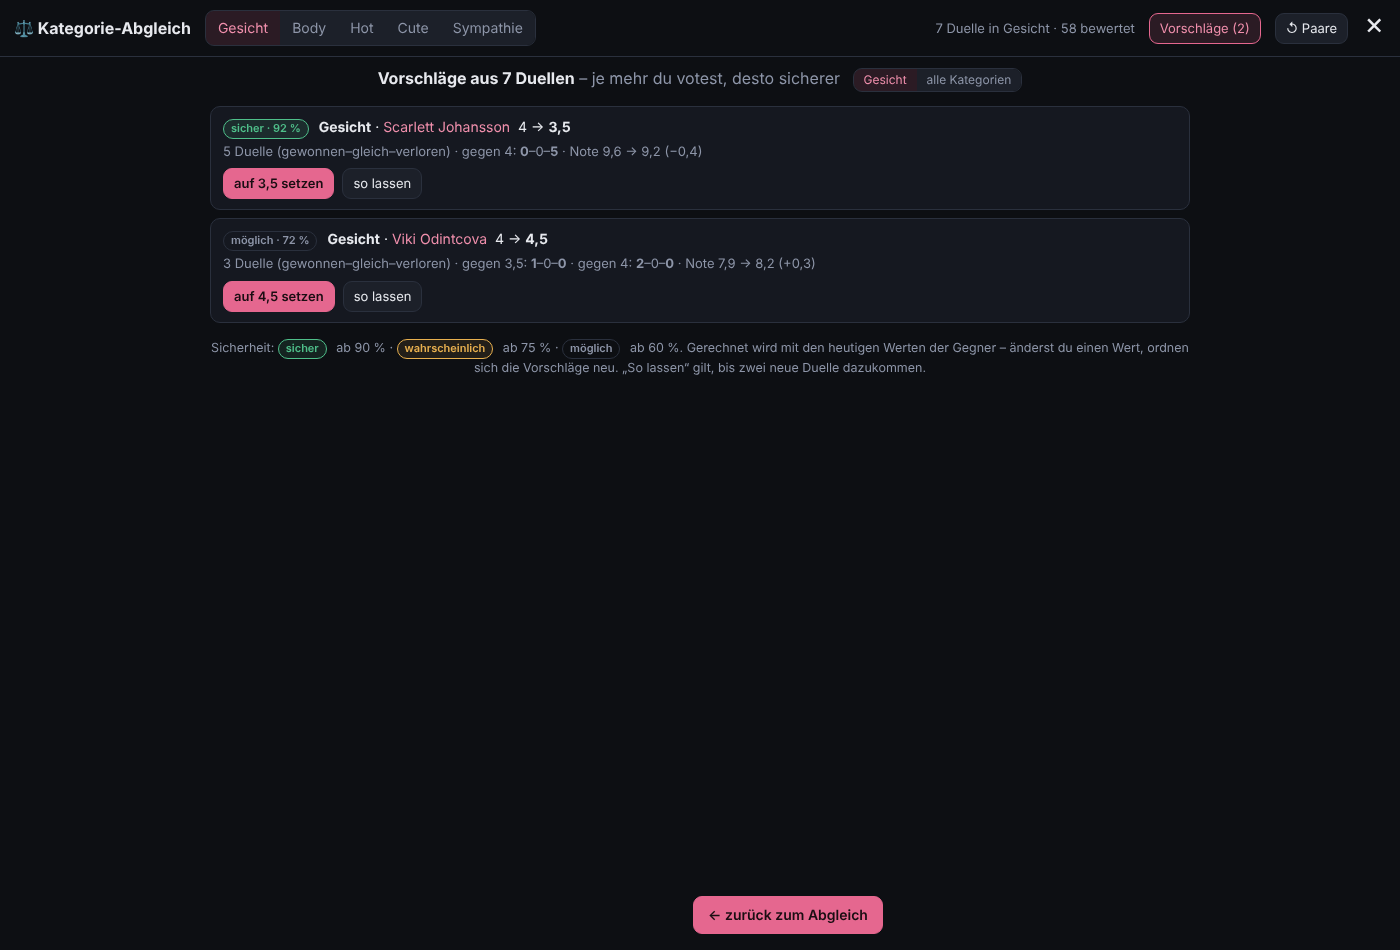
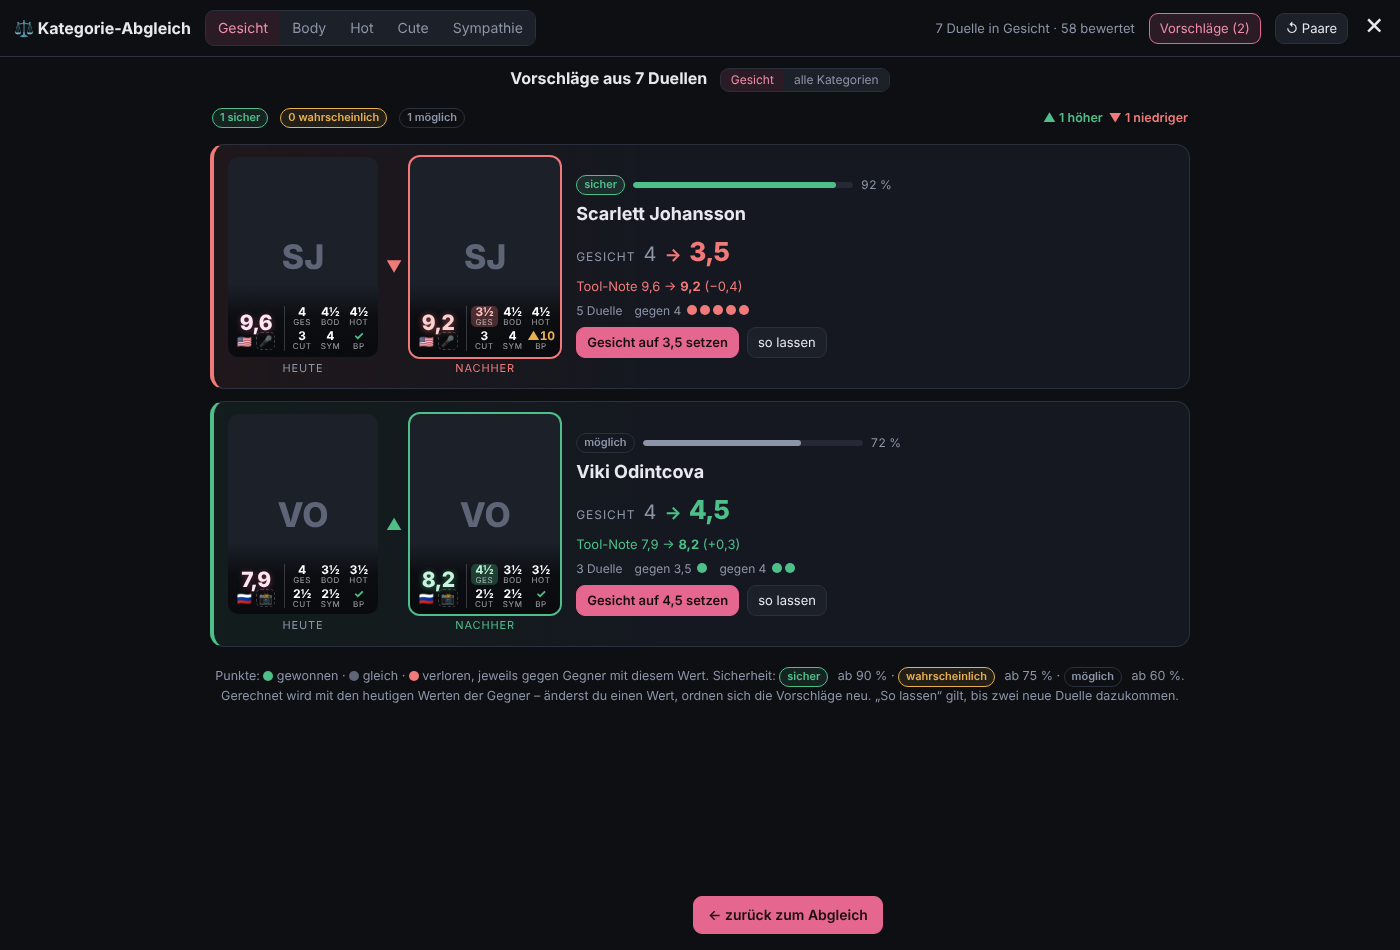
Abgleich-Vorschläge als Karten mit Vorher/Nachher-Kacheln, Farben und Duell-Punkten
Claude-Session: https://claude.ai/code/session_019S5DF1M4K8UNEBHmdPfG7m

diff --git a/app.js b/app.js
@@ -2025,11 +2025,11 @@
   }
   // Karten-Stil wie eine Sammelkarte: große Tool-Note + Flagge links, Kategorien rechts
   const futV = (x) => x == null ? '–' : (x % 1 ? Math.floor(x) + '½' : String(x));
-  function futHTML(e) {
+  function futHTML(e, hl) {   // hl = { f, dir: 'up'|'down' } hebt einen Wert hervor (Abgleich-Vorschläge)
     const s = scoreOf(e); if (!s) return '';
     const st = SCORE_CATS.map(c => {
       const x = num(v(e, c.f)), unset = x == null;
-      return `<span class="fut-s${unset ? ' unset' : ''}" title="${esc(c.label)}${unset && c.f === 'Sympathy Score' ? ' – nicht gesetzt, zählt als 2,5' : ''}"><b>${futV(x)}</b><i>${esc(c.short)}</i></span>`;
+      return `<span class="fut-s${unset ? ' unset' : ''}${hl && hl.f === c.f ? ' chg ' + hl.dir : ''}" title="${esc(c.label)}${unset && c.f === 'Sympathy Score' ? ' – nicht gesetzt, zählt als 2,5' : ''}"><b>${futV(x)}</b><i>${esc(c.short)}</i></span>`;
     }).join('');
     const r = ratingDiff(e);
     const bp = IS_CHARS ? (e._ranker ? `<span class="fut-s" title="Image Ranker: ${esc(e._ranker.tab)} · Platz ${e._ranker.rank}/${e._ranker.total}"><b style="color:${rkColor(e._ranker.tier)}">${esc(e._ranker.tier)}</b><i>RNK</i></span>` : `<span class="fut-s unset" title="nicht im Ranker"><b>–</b><i>RNK</i></span>`)
@@ -2037,7 +2037,7 @@
       : r.state === 'diff' ? `<span class="fut-s ${r.site > r.mine ? 'up' : 'down'}" title="meine Babepedia-Note ${r.site} – ${r.site > r.mine ? 'höher' : 'niedriger'} als die Tool-Note (gerundet ${r.mine})"><b>${r.site > r.mine ? '▲' : '▼'}${r.site}</b><i>BP</i></span>`
       : `<span class="fut-s unset" title="${r.state === 'gone' ? 'Babepedia-Profil gelöscht' : 'auf Babepedia noch nicht bewertet'}"><b>–</b><i>BP</i></span>`;
     const nat = IS_CHARS ? '' : fieldValues(e, 'Nationality')[0];
-    return `<div class="fut" title="Tool-Note ${esc(v(e, 'Score'))}">
+    return `<div class="fut${hl ? ' fut-' + hl.dir : ''}" title="Tool-Note ${esc(v(e, 'Score'))}">
       <div class="fut-main"><b>${s.ten.toFixed(1).replace('.', ',')}</b><span>${nat ? (flagFor(nat) || '') : ''}${(() => { const pc = ui.cardBadges.includes('primary') && primaryCat(e); return pc ? `<i class="fut-pos${pc.manual ? '' : ' auto'}" title="Hauptbereich: ${esc(pc.cat)}${pc.manual ? '' : ' (automatisch)'}">${primaryIcon(pc.cat)}</i>` : ''; })()}</span></div>
       <div class="fut-grid">${st}${bp}</div></div>`;
   }
@@ -3692,21 +3692,41 @@
       <span class="cb-fixes"><button class="btn small primary" data-cbnext>weiter <kbd>Enter</kbd></button></span></div>`;
   }
   // Liste der Vorschläge (aktuelle Kategorie oder alle)
+  // Mini-Kachel mit Sammelkarten-Overlay (vorher / nachher)
+  function sugCardHTML(e, label, hl) {
+    const img = images(e)[0], src = img ? R(img) : '';
+    return `<figure class="sg-card${hl ? ' after ' + hl.dir : ''}"><div class="sg-img"><span class="sg-ini">${esc(initials(v(e, 'Name')))}</span>${src ? `<img src="${esc(src)}" alt="" loading="lazy" referrerpolicy="no-referrer" data-alt="${esc(thumbUrl(src) || '')}" onerror="if(this.dataset.alt&&this.src!==this.dataset.alt){this.src=this.dataset.alt}else{this.remove()}">` : ''}${futHTML(e, hl)}</div><figcaption>${label}</figcaption></figure>`;
+  }
+  function sugDots(tab) {
+    return tab.map(([o, t]) => `<span class="sg-vs"><i>gegen ${fmtV(o)}</i>${'<b class="w" title="gewonnen"></b>'.repeat(t[0])}${'<b class="t" title="gleich"></b>'.repeat(t[1])}${'<b class="l" title="verloren"></b>'.repeat(t[2])}</span>`).join('');
+  }
   function calibSugList() {
     const { el } = calib, all = !!calib.sugAll, c = SCORE_CATS[calib.cat];
     calib.list = true;
     const list = cbSugs().filter(x => all || x.c.f === c.f);
-    $('.cb-q', el).innerHTML = `<b>Vorschläge aus ${duels.length} Duellen</b> <span class="muted">– je mehr du votest, desto sicherer</span>
+    const cnt = (k) => list.filter(x => x.cls === k).length, ups = list.filter(x => x.to > x.from).length;
+    $('.cb-q', el).innerHTML = `<b>Vorschläge aus ${duels.length} Duellen</b>
       <span class="seg cb-scope"><button data-cbscope="cat" class="${all ? '' : 'on'}">${esc(c.label)}</button><button data-cbscope="all" class="${all ? 'on' : ''}">alle Kategorien</button></span>`;
-    $('.cb-body', el).innerHTML = `<div class="cb-list">${list.length ? list.map(x => {
-      const eff = noteEffect(x.e, x.c.f, x.to);
-      const tab = x.tab.map(([o, t]) => `gegen ${fmtV(o)}: <b>${t[0]}</b>–${t[1]}–<b>${t[2]}</b>`).join(' · ');
-      return `<div class="cb-item"><div class="cb-item-h"><span class="cb-conf ${x.cls}" title="${Math.round(x.conf * 100)} % Wahrscheinlichkeit, dass der Wert eher ${x.to > x.from ? 'höher' : 'niedriger'} liegt">${x.level} · ${Math.round(x.conf * 100)} %</span>
-          <b>${esc(x.c.label)}</b> · <button class="linklike" data-cbopen="${esc(x.e._id)}">${esc(v(x.e, 'Name'))}</button> <span class="cb-arrow">${fmtV(x.from)} → <b>${fmtV(x.to)}</b></span></div>
-        <div class="cb-item-m muted">${x.n} Duelle (gewonnen–gleich–verloren) · ${tab}${eff ? ` · ${esc(eff)}` : ''}</div>
-        <div class="cb-fixes"><button class="btn small primary" data-cbapply="${esc(x.e._id)}" data-cat="${esc(x.c.f)}" data-val="${x.to}">auf ${fmtV(x.to)} setzen</button><button class="btn small" data-cbkeepsug="${esc(x.e._id)}" data-cat="${esc(x.c.f)}">so lassen</button></div></div>`;
-    }).join('') : `<p class="muted">Keine Vorschläge${all ? '' : ` in ${esc(c.label)}`}. Vorschläge entstehen, sobald ein Eintrag mindestens ${CB_MIN_DUELS} Duelle hat und die Ergebnisse klar in eine Richtung zeigen.</p>`}
-      <p class="muted cb-help">Sicherheit: <span class="cb-conf hi">sicher</span> ab 90 % · <span class="cb-conf mid">wahrscheinlich</span> ab 75 % · <span class="cb-conf lo">möglich</span> ab 60 %. Gerechnet wird mit den heutigen Werten der Gegner – änderst du einen Wert, ordnen sich die Vorschläge neu. „So lassen“ gilt, bis zwei neue Duelle dazukommen.</p></div>`;
+    const head = list.length ? `<div class="sg-sum"><span class="cb-conf hi">${cnt('hi')} sicher</span><span class="cb-conf mid">${cnt('mid')} wahrscheinlich</span><span class="cb-conf lo">${cnt('lo')} möglich</span><span class="sg-sep"></span><span class="sg-dir up">▲ ${ups} höher</span><span class="sg-dir down">▼ ${list.length - ups} niedriger</span></div>` : '';
+    $('.cb-body', el).innerHTML = `<div class="cb-list sg-list">${head}${list.length ? list.map(x => {
+      const dir = x.to > x.from ? 'up' : 'down', pct = Math.round(x.conf * 100);
+      const after = Object.assign({}, x.e, { [x.c.f]: String(x.to) });
+      const sa = scoreOf(after); if (sa) { after.Score = (Math.round(sa.ten * 10) / 10).toFixed(1); after['My Rating'] = String(Math.round(sa.ten)); }
+      const sb = scoreOf(x.e), r1 = (t) => Math.round(t * 10) / 10, f1 = (t) => r1(t).toFixed(1).replace('.', ',');
+      const dn = sa && sb ? Math.round((r1(sa.ten) - r1(sb.ten)) * 10) / 10 : null;
+      const note = sa && sb ? `<span class="sg-note ${dn > 0 ? 'up' : dn < 0 ? 'down' : ''}">Tool-Note ${f1(sb.ten)} → <b>${f1(sa.ten)}</b>${dn ? ` (${dn > 0 ? '+' : '−'}${f1(Math.abs(dn))})` : ` (${sb.ten >= 10 ? 'bleibt am Maximum' : 'gleich'})`}</span>` : '<span class="sg-note muted">Tool-Note noch nicht vollständig</span>';
+      return `<article class="sg ${dir} ${x.cls}">
+        <div class="sg-cards">${sugCardHTML(x.e, 'heute')}<span class="sg-to ${dir}">${dir === 'up' ? '▲' : '▼'}</span>${sugCardHTML(after, 'nachher', { f: x.c.f, dir })}</div>
+        <div class="sg-info">
+          <div class="sg-top"><span class="cb-conf ${x.cls}">${x.level}</span><span class="sg-meter" title="${pct} % Wahrscheinlichkeit, dass der Wert eher ${dir === 'up' ? 'höher' : 'niedriger'} liegt"><i style="width:${pct}%"></i></span><span class="sg-pct">${pct} %</span></div>
+          <button class="sg-name linklike" data-cbopen="${esc(x.e._id)}">${esc(v(x.e, 'Name'))}</button>
+          <div class="sg-change"><span class="sg-cat">${esc(x.c.label)}</span><span class="sg-from">${fmtV(x.from)}</span><span class="sg-arr ${dir}">→</span><span class="sg-new ${dir}">${fmtV(x.to)}</span></div>
+          ${note}
+          <div class="sg-ev"><span class="muted">${x.n} Duelle</span>${sugDots(x.tab)}</div>
+          <div class="sg-btns"><button class="btn small primary" data-cbapply="${esc(x.e._id)}" data-cat="${esc(x.c.f)}" data-val="${x.to}">${esc(x.c.label)} auf ${fmtV(x.to)} setzen</button><button class="btn small" data-cbkeepsug="${esc(x.e._id)}" data-cat="${esc(x.c.f)}">so lassen</button></div>
+        </div></article>`;
+    }).join('') : `<div class="sg-empty"><div class="sg-empty-ico">⚖</div><p>Keine Vorschläge${all ? '' : ` in ${esc(c.label)}`}.</p><p class="muted">Vorschläge entstehen, sobald ein Eintrag mindestens ${CB_MIN_DUELS} Duelle hat und die Ergebnisse klar in eine Richtung zeigen.</p></div>`}
+      <p class="muted cb-help">Punkte: <b class="sg-dot w"></b> gewonnen · <b class="sg-dot t"></b> gleich · <b class="sg-dot l"></b> verloren, jeweils gegen Gegner mit diesem Wert. Sicherheit: <span class="cb-conf hi">sicher</span> ab 90 % · <span class="cb-conf mid">wahrscheinlich</span> ab 75 % · <span class="cb-conf lo">möglich</span> ab 60 %. Gerechnet wird mit den heutigen Werten der Gegner – änderst du einen Wert, ordnen sich die Vorschläge neu. „So lassen“ gilt, bis zwei neue Duelle dazukommen.</p></div>`;
     $('.cb-foot', el).innerHTML = `<div class="cb-ans"><button class="btn primary" data-cbback>← zurück zum Abgleich</button></div>`;
     calibCount();
   }

diff --git a/style.css b/style.css
@@ -941,3 +941,70 @@ body.cards-s .card .img.has-fut .badges { bottom: 60px; }
 .cb-scope { margin-left: 8px; vertical-align: middle; }
 .cb-scope button { font-size: 12px; padding: 2px 10px; }
 .btn.primary kbd { background: rgba(0,0,0,.22); color: inherit; border-color: transparent; }
+
+/* Abgleich-Vorschläge als Karten */
+.sg-list { gap: 12px; }
+.sg-sum { display: flex; flex-wrap: wrap; align-items: center; gap: 6px; padding: 2px 2px 4px; }
+.sg-sep { flex: 1; }
+.sg-dir { font-size: 12.5px; font-weight: 600; }
+.sg-dir.up, .sg-new.up, .sg-arr.up, .sg-note.up, .sg-to.up { color: var(--good); }
+.sg-dir.down, .sg-new.down, .sg-arr.down, .sg-note.down, .sg-to.down { color: #f07a7a; }
+.sg { display: grid; grid-template-columns: auto 1fr; gap: 16px; align-items: center; background: var(--surface); border: 1px solid var(--border); border-left: 4px solid var(--border); border-radius: 14px; padding: 12px 14px; }
+.sg.up { border-left-color: var(--good); background: linear-gradient(90deg, rgba(79,191,138,.08), var(--surface) 45%); }
+.sg.down { border-left-color: #f07a7a; background: linear-gradient(90deg, rgba(240,122,122,.08), var(--surface) 45%); }
+.sg-cards { display: flex; align-items: center; gap: 8px; }
+.sg-card { margin: 0; width: 150px; }
+.sg-img { position: relative; aspect-ratio: 3 / 4; border-radius: 10px; overflow: hidden; background: var(--surface-2); }
+.sg-img img { position: relative; width: 100%; height: 100%; object-fit: cover; display: block; object-position: 50% 20%; }
+.sg-ini { position: absolute; inset: 0; display: grid; place-items: center; font-size: 34px; font-weight: 800; color: var(--faint); }
+.sg-img .fut { position: absolute; left: 0; right: 0; bottom: 0; display: flex; align-items: flex-end; gap: 6px; padding: 22px 6px 6px; background: linear-gradient(to top, rgba(8,9,12,.94) 0%, rgba(8,9,12,.8) 55%, rgba(8,9,12,0) 100%); color: #fff; }
+.sg-img .fut-main b { font-size: 21px; }
+.sg-img .fut-main span { font-size: 12px; }
+.sg-img .fut-s b { font-size: 12px; }
+.sg-img .fut-s i { font-size: 8px; }
+.sg-img .fut-grid { padding-left: 4px; }
+.sg-card figcaption { text-align: center; font-size: 11px; color: var(--muted); margin-top: 4px; text-transform: uppercase; letter-spacing: .08em; }
+.sg-card.after .sg-img { box-shadow: 0 0 0 2px var(--good); }
+.sg-card.after.down .sg-img { box-shadow: 0 0 0 2px #f07a7a; }
+.sg-card.after.up figcaption { color: var(--good); }
+.sg-card.after.down figcaption { color: #f07a7a; }
+.fut.fut-up .fut-main b { color: #c9f5de; text-shadow: 0 1px 6px rgba(79,191,138,.6); }
+.fut.fut-down .fut-main b { color: #ffd0d0; text-shadow: 0 1px 6px rgba(240,122,122,.6); }
+.fut-s.chg { border-radius: 5px; }
+.fut-s.chg.up { background: rgba(79,191,138,.28); }
+.fut-s.chg.down { background: rgba(240,122,122,.28); }
+.fut-s.chg.up b { color: #b8f3d4; }
+.fut-s.chg.down b { color: #ffc4c4; }
+.sg-to { font-size: 16px; }
+.sg-info { min-width: 0; display: flex; flex-direction: column; gap: 6px; }
+.sg-top { display: flex; align-items: center; gap: 8px; }
+.sg-top .cb-conf { margin: 0; }
+.sg-meter { flex: 1; max-width: 220px; height: 6px; border-radius: 99px; background: var(--surface-3); overflow: hidden; }
+.sg-meter i { display: block; height: 100%; border-radius: inherit; background: var(--muted); }
+.sg.hi .sg-meter i { background: var(--good); }
+.sg.mid .sg-meter i { background: var(--warn); }
+.sg-pct { font-size: 12px; color: var(--muted); font-variant-numeric: tabular-nums; }
+.sg-name { align-self: flex-start; background: none; border: 0; padding: 0; color: var(--text); font: inherit; font-size: 18px; font-weight: 700; cursor: pointer; text-align: left; }
+.sg-name:hover { color: var(--accent-2); }
+.sg-change { display: flex; align-items: baseline; gap: 8px; }
+.sg-cat { font-size: 12px; text-transform: uppercase; letter-spacing: .08em; color: var(--muted); }
+.sg-from { font-size: 20px; color: var(--muted); font-variant-numeric: tabular-nums; }
+.sg-arr { font-size: 18px; font-weight: 700; }
+.sg-new { font-size: 26px; font-weight: 800; font-variant-numeric: tabular-nums; }
+.sg-note { font-size: 13px; }
+.sg-ev { display: flex; flex-wrap: wrap; align-items: center; gap: 4px 12px; font-size: 12px; }
+.sg-vs { display: inline-flex; align-items: center; gap: 3px; }
+.sg-vs i { font-style: normal; color: var(--muted); margin-right: 3px; }
+.sg-vs b, .sg-dot { display: inline-block; width: 10px; height: 10px; border-radius: 50%; vertical-align: -1px; }
+.sg-vs b.w, .sg-dot.w { background: var(--good); }
+.sg-vs b.t, .sg-dot.t { background: var(--faint); }
+.sg-vs b.l, .sg-dot.l { background: #f07a7a; }
+.sg-btns { display: flex; flex-wrap: wrap; gap: 8px; margin-top: 2px; }
+.sg-empty { text-align: center; padding: 40px 10px; }
+.sg-empty-ico { font-size: 40px; opacity: .5; }
+@media (max-width: 640px) {
+  .sg { grid-template-columns: 1fr; gap: 10px; padding: 10px; }
+  .sg-cards { justify-content: center; }
+  .sg-card { width: calc(50% - 16px); max-width: 160px; }
+  .sg-name { font-size: 16px; }
+}

diff --git a/README.md b/README.md
@@ -338,3 +338,4 @@ Ein alter Batch aus Version 12.2 wird automatisch übernommen.
 - Neues Link-Feld „Reddit“ (Bereich Links). Einmalige Übernahme beim Start (Merker `bp-organizer-redditmig1` im localStorage): Reddit-Link aus den Notizen – steht er allein in seiner Zeile (auch „Reddit: …“), wird die Zeile aus der Notiz entfernt – oder ein Reddit-Link im Feld „Website“ (bleibt dort stehen, weil Babepedia ihn so liefert). Das Skript (ab 14.28) übernimmt Reddit-Links aus den Social-Icons.
 - Filter „📝 Zu erledigen“: Mehrfachauswahl, oder-verknüpft (zeigt Einträge, auf die mindestens ein Punkt zutrifft), mit Anzahl je Punkt. Personen: Kachelbild ist hochgeladenes Bild, Kachelbild nicht bestätigt, Tool-Note fehlt, Sympathie fehlt, Hauptbereich nicht bestätigt, Werte fehlen, Babepedia-Update offen, Babepedia-Note nicht angeglichen, offene Abgleich-Entscheidung, im Ranker veraltet, kein Bild. Charaktere zusätzlich: Volljährig ungeklärt, Bilder mit unklarer Bildart. Auswahl wird pro Gerät gemerkt (`ui.todo`); mit den anderen Filtern und-verknüpft.
 - Abgleich mit Vorschlägen aus allen gesammelten Duellen (statt Änderungsvorschlag nach jedem Vote): Nach dem Vote nur ✓/⚠ und weiter. „Vorschläge (n)“ wertet pro Eintrag und Kategorie alle Duelle gegen die heutigen Werte der Gegner aus (P(X schlägt Y) = 1/(1+e^(−2,2·(x−y))), „gleich“ = halb, Vorwissen = heutiger Wert mit SD 0,6) und schlägt den wahrscheinlichsten Wert vor – ab 2 Duellen, mit Sicherheit „möglich“ (≥ 60 %), „wahrscheinlich“ (≥ 75 %), „sicher“ (≥ 90 %). Je Vorschlag: Bilanz gewonnen–gleich–verloren je Gegner-Wert und Auswirkung auf die Tool-Note; „auf X setzen“ oder „so lassen“ (Merker `_calibKeep` am Eintrag, gilt bis zwei neue Duelle dazukommen oder der Wert sich ändert). „↺ Paare“ löscht keine Duelle mehr, sondern merkt sich je Kategorie einen Zeitpunkt (`pairsResetAt`, synchronisiert), ab dem verglichene Paare wieder vorkommen dürfen. Filter „Zu erledigen“: „Abgleich-Vorschlag offen“.
+- Vorschläge als Karten: zwei Mini-Kacheln „heute“ und „nachher“ mit Sammelkarten-Overlay (geänderter Wert und neue Tool-Note grün = höher, rot = niedriger), Sicherheitsbalken, große Änderung „4 → 3,5“, Tool-Note vorher → nachher, Duell-Bilanz als Punkte (grün gewonnen, grau gleich, rot verloren) je Gegner-Wert; Übersicht oben (Anzahl je Sicherheitsstufe, höher/niedriger).
